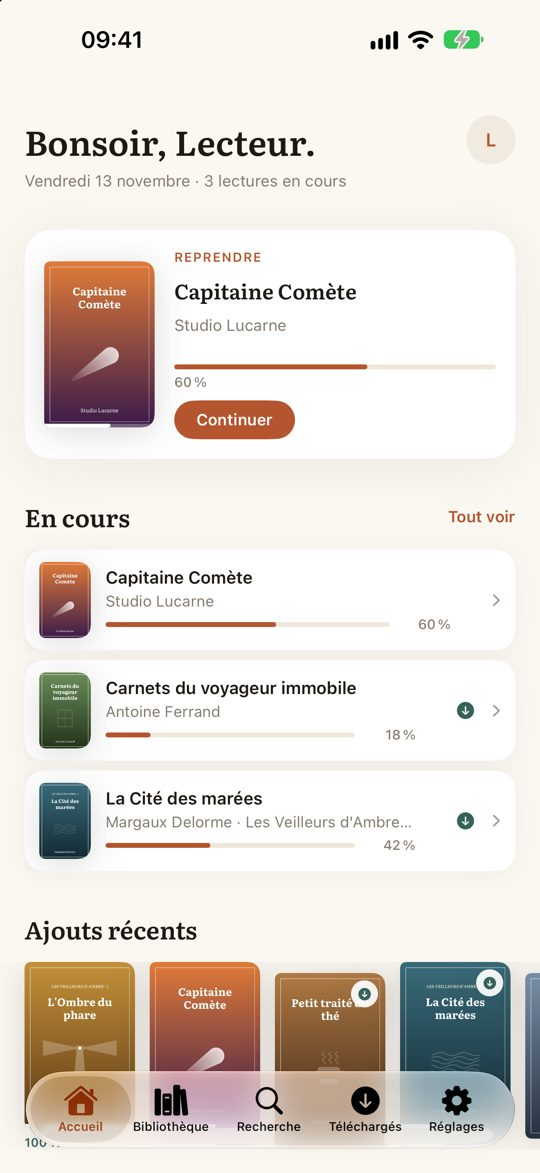
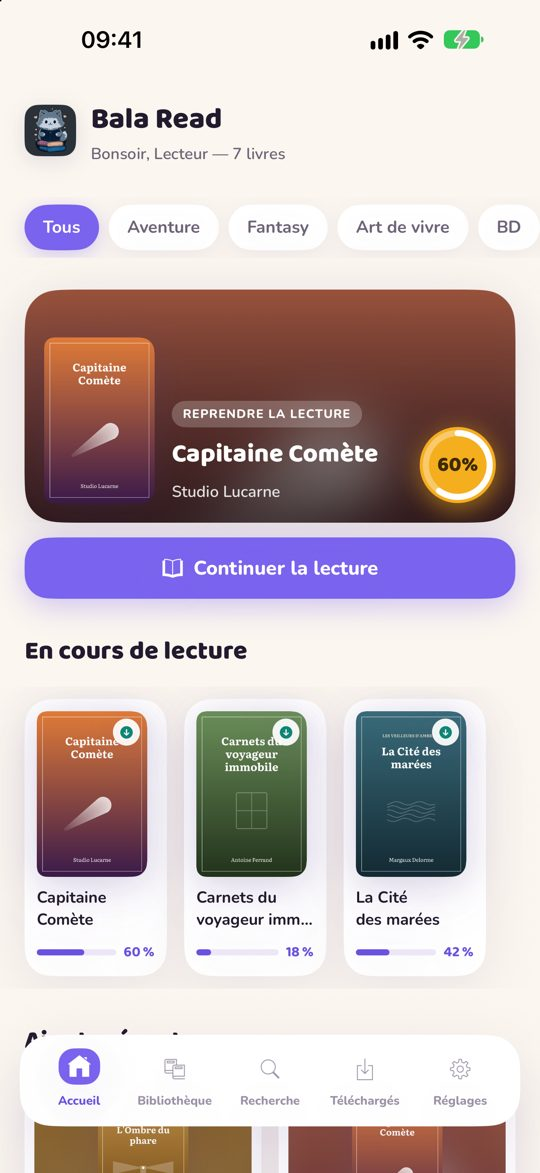
Nouvelle interface (style Bala) : captures et couleurs

diff --git a/index.html b/index.html
@@ -12,22 +12,22 @@
 <link rel="apple-touch-icon" href="icon.png">
 <style>
   :root {
-    --bg: #FBF7F1; --surface: #FFFFFF; --surface-2: #F1EAE0; --fg: #1D1A16; --muted: #857C71; --body: #4A443C;
-    --accent: #B4552F; --accent-soft: #F3E1D7; --line: #E9E0D3; --on-accent: #FFFFFF; --green: #35635A;
+    --bg: #FBF6EF; --surface: #FFFFFF; --surface-2: #F1EAE0; --fg: #1D1A16; --muted: #857C71; --body: #4A443C;
+    --accent: #6A52E0; --accent-soft: #E6E1FF; --line: #E9E0D3; --on-accent: #FFFFFF; --green: #35635A;
     --shadow: 0 10px 30px rgba(29, 26, 22, 0.08);
     --serif: "Iowan Old Style", "Palatino Linotype", Palatino, Georgia, serif;
     --sans: -apple-system, "SF Pro Text", "Segoe UI", system-ui, sans-serif;
   }
   @media (prefers-color-scheme: dark) {
     :root:not([data-theme="light"]) {
-      --bg: #12100E; --surface: #1B1815; --surface-2: #241F1B; --fg: #EFE9E0; --muted: #9C9187; --body: #C8BFB4;
-      --accent: #E08055; --accent-soft: #3A2419; --line: #2C2622; --on-accent: #1D1A16; --green: #4E8577;
+      --bg: #151221; --surface: #231E36; --surface-2: #241F1B; --fg: #EFE9E0; --muted: #9C9187; --body: #C8BFB4;
+      --accent: #A897FF; --accent-soft: #2F2858; --line: #2C2622; --on-accent: #1D1A16; --green: #4E8577;
       --shadow: 0 10px 30px rgba(0, 0, 0, 0.35); color-scheme: dark;
     }
   }
   :root[data-theme="dark"] {
-    --bg: #12100E; --surface: #1B1815; --surface-2: #241F1B; --fg: #EFE9E0; --muted: #9C9187; --body: #C8BFB4;
-    --accent: #E08055; --accent-soft: #3A2419; --line: #2C2622; --on-accent: #1D1A16; --green: #4E8577;
+    --bg: #151221; --surface: #231E36; --surface-2: #241F1B; --fg: #EFE9E0; --muted: #9C9187; --body: #C8BFB4;
+    --accent: #A897FF; --accent-soft: #2F2858; --line: #2C2622; --on-accent: #1D1A16; --green: #4E8577;
     --shadow: 0 10px 30px rgba(0, 0, 0, 0.35); color-scheme: dark;
   }
   * { box-sizing: border-box; }
